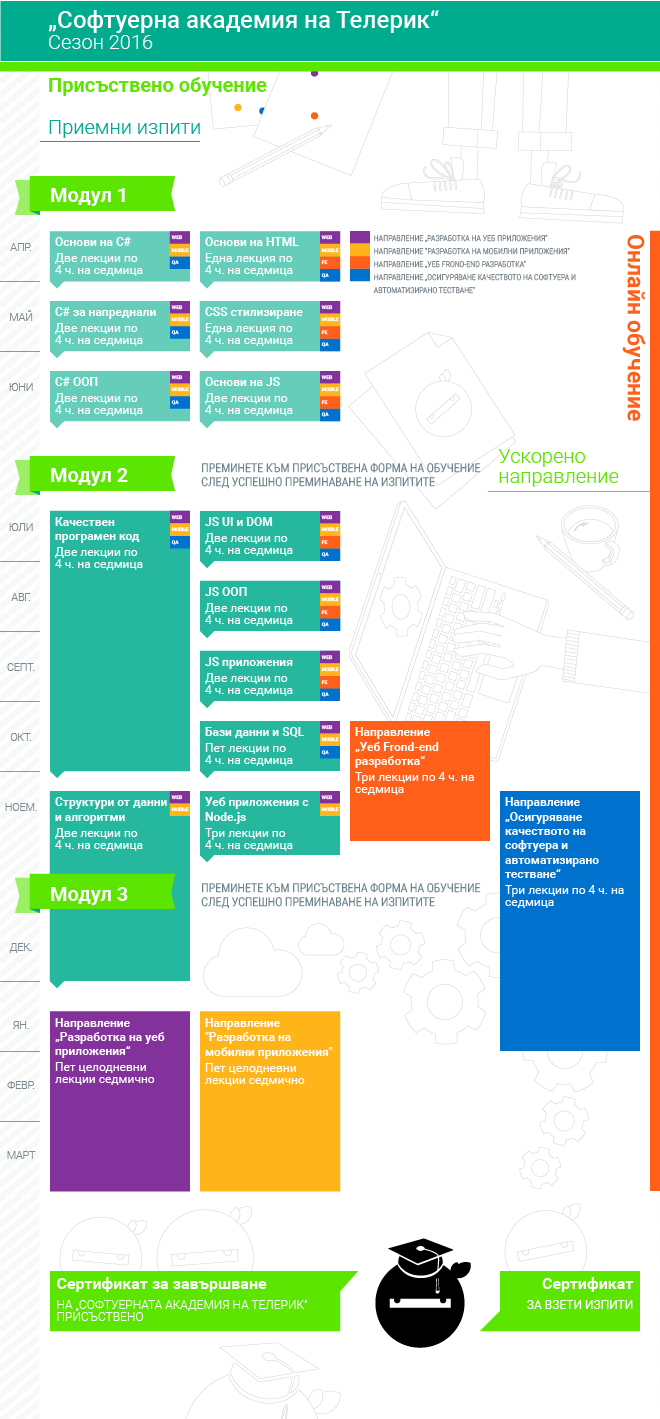
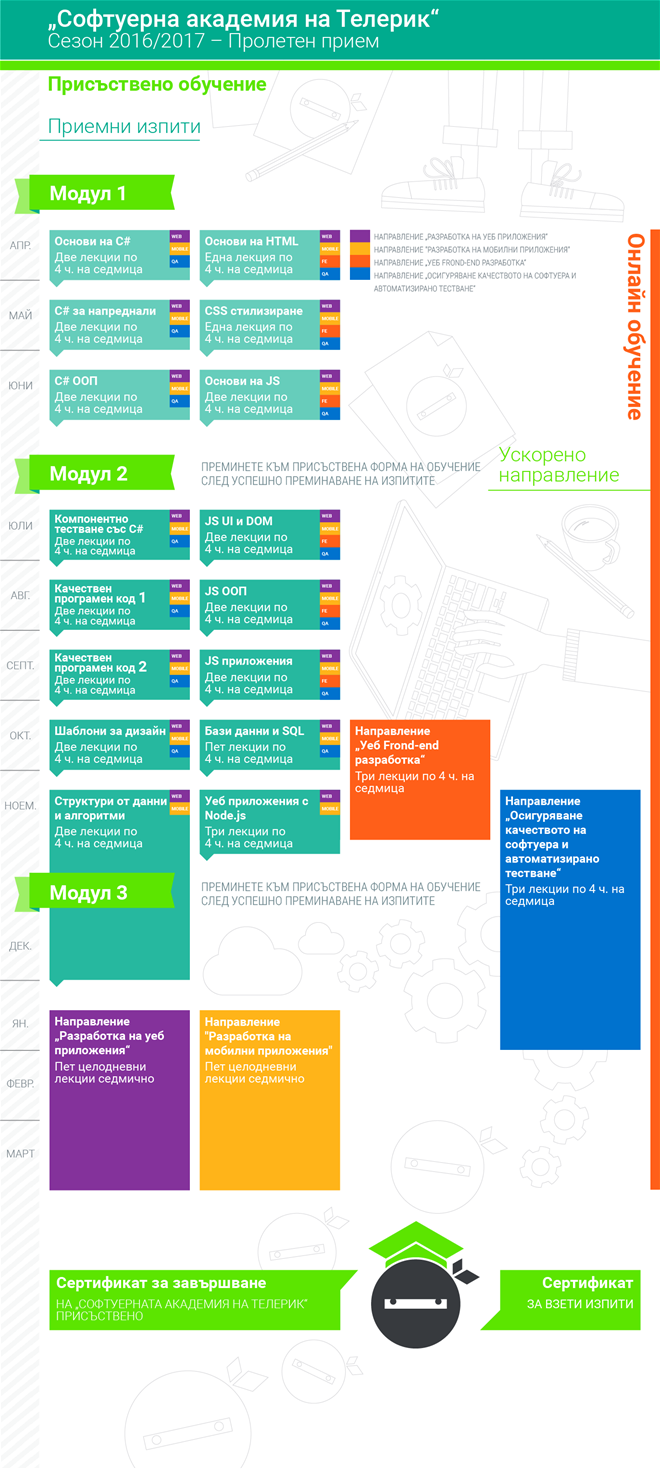
Update curriculum and Readme

diff --git a/README.md b/README.md
@@ -10,8 +10,8 @@
 | May | 1 | [CSS Styling](https://telerikacademy.com/Courses/Courses/Details/332) | [GitHub](https://github.com/TelerikAcademy/CSS) \ [About](http://academy.telerik.com/student-courses/web-design-and-ui/css-styling/about)| [GitHub](./Modul-1/CSS/Homework) | [GitHub](./Modul-1/CSS/Exam-Preparation) |
 | June | 1 | [Object Oriented Programming](https://telerikacademy.com/Courses/Courses/Details/338) | [GitHub](https://github.com/TelerikAcademy/Object-Oriented-Programming) \ [About](http://academy.telerik.com/student-courses/programming/object-oriented-programming/about) | [GitHub](./Modul-1/OOP/Homework) | [GitHub](./Modul-1/OOP/Exam-Preparation) |
 | June | 1 | [JavaScript-Fundamentals](http://telerikacademy.com/Courses/Courses/Details/339) | [GitHub](https://github.com/TelerikAcademy/JavaScript-Fundamentals) \ [About](http://academy.telerik.com/student-courses/web-design-and-ui/javascript-fundamentals/about) | [GitHub](./Modul-1/JavaScript-Fundamentals/Homework) | [GitHub](Modul-1/JavaScript-Fundamentals/Exam-Preparation) |
-| July | 2 | [JavaScript UI и DOM](http://telerikacademy.com/Courses/Courses/Details/344) | [GitHub](https://github.com/TelerikAcademy/JavaScript-UI-and-DOM) \ [About](http://telerikacademy.com/Courses/javascript-part-2) | [GitHub](./Modul-2/JavaScript-UI-and-DOM/Homework) | GitHub |
-| July | 2 | [High-Quality Code - Unit Testing](http://telerikacademy.com/Courses/Courses/Details/345) | [GitHub](https://github.com/TelerikAcademy/High-Quality-Code-Unit-Testing) \ [About](http://telerikacademy.com/Courses/unit-testing-csharp) | [GitHub](./High-Quality-Code-Unit-Testing) | GitHub |
+| July | 2 | [JavaScript UI и DOM](http://telerikacademy.com/Courses/Courses/Details/344) | [GitHub](https://github.com/TelerikAcademy/JavaScript-UI-and-DOM) \ [About](http://academy.telerik.com/student-courses/web-design-and-ui/javascript-ui-dom/about) | [GitHub](./Modul-2/JavaScript-UI-and-DOM/Homework) | GitHub |
+| July | 2 | [High-Quality Code - Unit Testing](http://telerikacademy.com/Courses/Courses/Details/345) | [GitHub](https://github.com/TelerikAcademy/High-Quality-Code-Unit-Testing) \ [About](http://academy.telerik.com/student-courses/programming/high-quality-code/about) | [GitHub](./High-Quality-Code-Unit-Testing) | GitHub |
 ---
 
 ![Telerik Academy Curriculum](./Sources/telerik-academy-curriculum.png)
